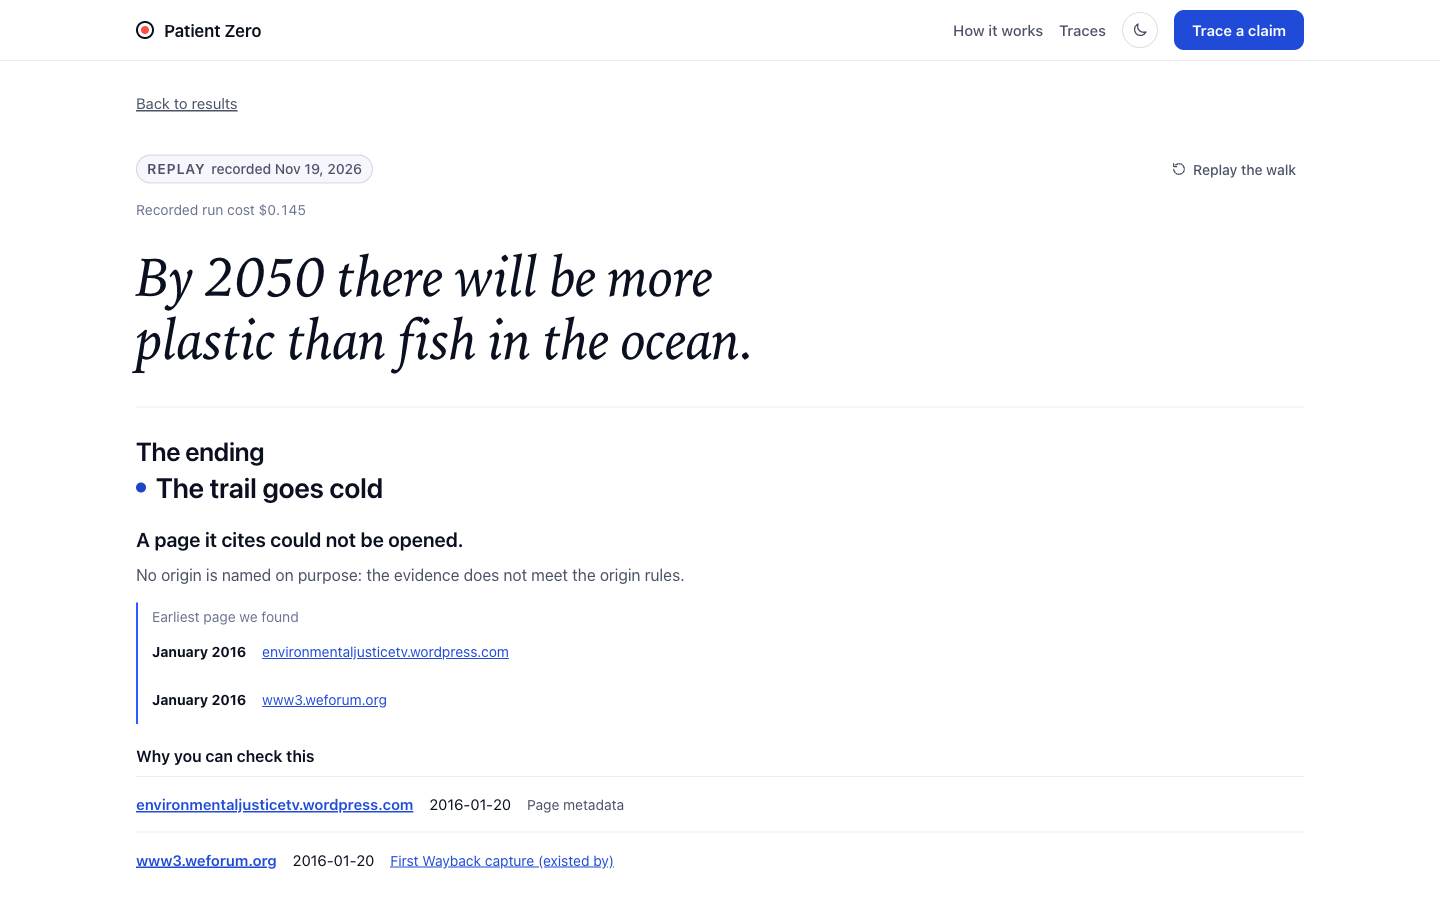
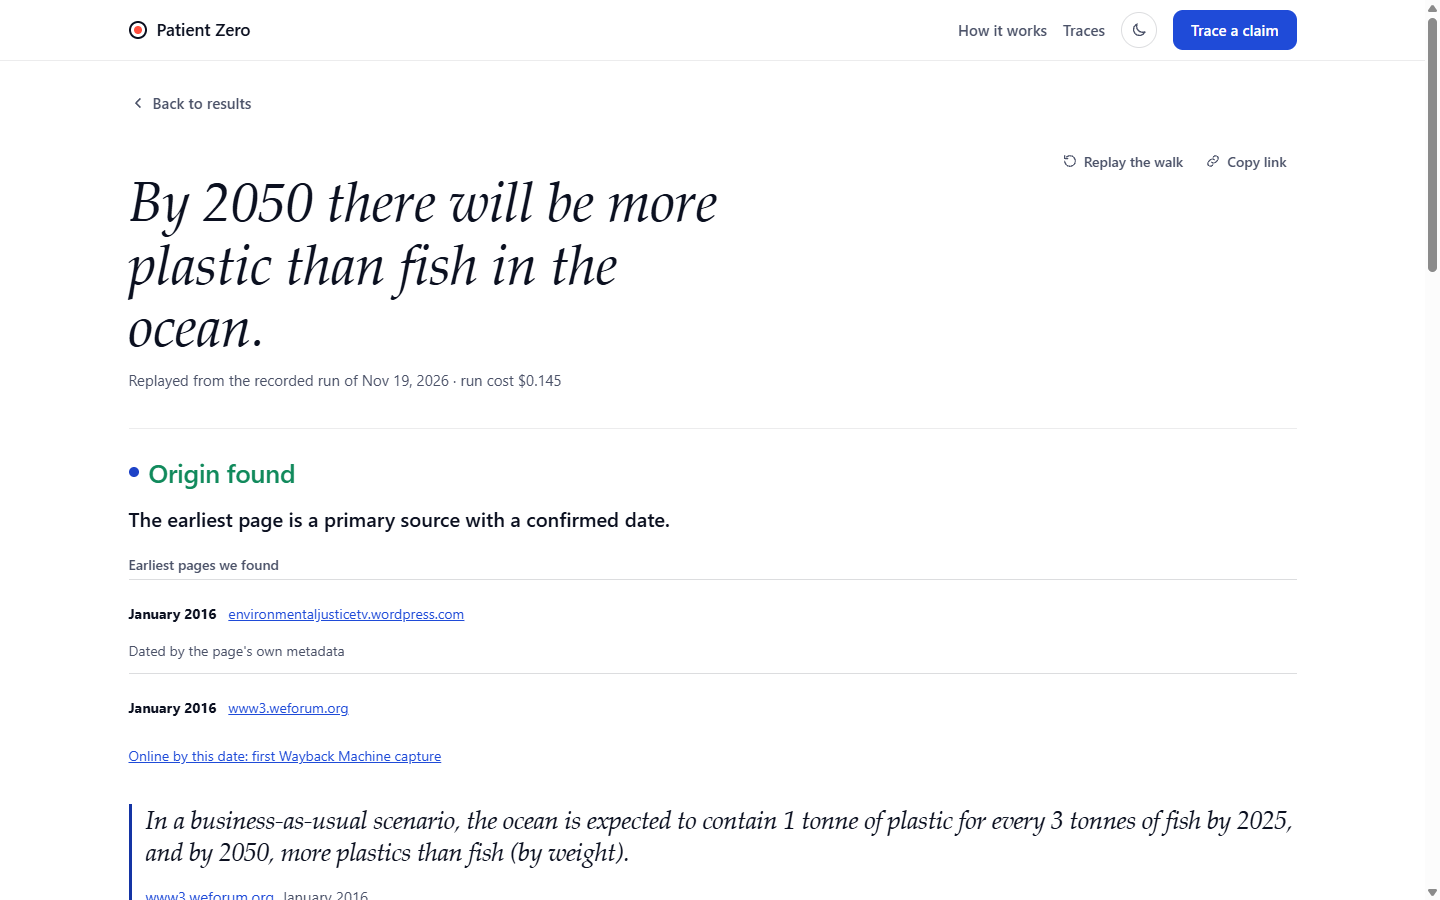
Copy and screenshots for the new dev-10 ending: Origin found, the WEF report, January 2016; cold-ending examples move to dev-02

diff --git a/apps/web/src/components/Landing.tsx b/apps/web/src/components/Landing.tsx
@@ -161,7 +161,7 @@ const steps = [
   { n: "1", title: "Search back in time", body: "Tavily searches for the claim, then again in older and older date windows, and extracts each page." },
   { n: "2", title: "Read and date every page", body: "Code pulls the exact sentence. Dates come from registries, page metadata, the Wayback Machine, and a marked date in the article only when nothing on the page contradicts it, each labelled." },
   { n: "3", title: "Compare copies to roots", body: "Nebius Token Factory models answer typed questions on each hop: did the number change, was a hedge dropped, same claim?" },
-  { n: "4", title: "Stop honestly", body: "A decision table in code picks the ending, never the model. If a page it cites can't be opened, the trail goes cold." },
+  { n: "4", title: "Stop honestly", body: "A decision table in code picks the ending, never the model. If a cited page needed to establish the origin can't be opened, the trail goes cold." },
 ];
 
 const team = [
@@ -176,6 +176,7 @@ export function Landing({ traces, hero, focusKey, onMatch, onLive }: {
 }) {
   const tries = challengeTraces(traces);
   const copiesTrace = traces.find((t) => t.id === "dev-12" && !t.synthetic) ?? null;
+  const coldTrace = traces.find((t) => t.id === "dev-02" && !t.synthetic) ?? null;
   return (
     <main className="lp">
       <section className="lp-hero">
@@ -215,11 +216,11 @@ export function Landing({ traces, hero, focusKey, onMatch, onLive }: {
           <h2 id="lp-only" className="lp-h2">Five things only a trace shows</h2>
           <p className="lp-intro">Each one is taken from a trace recorded in this repo, with the file or page you can open to check it.</p>
           <div className="lp-receipts">
-            {hero && (
-              <Receipt n="1" title="0 wrong origins on our 20-claim tuning set" measures="False origins: a page named as the origin that isn't. On our 20-claim tuning set, final live run: 0. Most traces stop short of the origin (target page cited on 4 of 10), and none yet ends on its true origin. Outside that set it is not perfect: on our 8-claim gallery run it named one false origin (G4), a list page whose metadata date predates the paper it lists."
-                check={[{ label: "eval/dev-score.md", href: blob("eval/dev-score.md") }, { label: "docs/gallery.md (G4)", href: blob("docs/gallery.md") }, { label: "open this trace", href: traceHref(hero) }]}>
+            {coldTrace && (
+              <Receipt n="1" title="0 wrong origins on our 20-claim tuning set" measures="False origins: a page named as the origin that isn't. On our 20-claim tuning set, final live run: 0. The replay re-decision now ends on the expected origins for the plastic versus fish claim and the plastic recycling claim. The spiders claim below still stops cold. The gallery live run named one false origin (G4), a list page whose metadata date predates the paper it lists; that page no longer passes the origin rules on replay."
+                check={[{ label: "eval/dev-score.md", href: blob("eval/dev-score.md") }, { label: "docs/gallery.md (G4)", href: blob("docs/gallery.md") }, { label: "open this trace", href: traceHref(coldTrace) }]}>
                 <p className="lp-big"><span>0</span> false origins on the tuning set</p>
-                <ColdEnding trace={hero} />
+                <ColdEnding trace={coldTrace} />
               </Receipt>
             )}
             {hero && (

diff --git a/apps/web/index.html b/apps/web/index.html
@@ -17,7 +17,7 @@
     <meta property="og:image" content="https://patient-0.vercel.app/og.png" />
     <meta property="og:image:width" content="1200" />
     <meta property="og:image:height" content="630" />
-    <meta property="og:image:alt" content="The Patient Zero landing page: the headline and a recorded trace walking a claim back from 2025 to 2016, ending with the trail going cold." />
+    <meta property="og:image:alt" content="The Patient Zero landing page: the headline and a recorded trace walking a claim back from 2025 to 2016. Origin found: the WEF report, January 2016, archived by January 20, 2016; publication date not established." />
     <meta name="twitter:card" content="summary_large_image" />
     <meta name="twitter:title" content="Patient Zero" />
     <meta name="twitter:description" content="Walks a viral claim back to the earliest web page it can find, and says so when the trail goes cold." />

diff --git a/apps/web/src/components/HowItWorks.tsx b/apps/web/src/components/HowItWorks.tsx
@@ -79,7 +79,7 @@ export function HowItWorks({ hero }: { hero: Trace | null }) {
               Nebius Token Factory models answer typed questions about each hop under strict JSON schemas: did the number change, was a hedge dropped, is it the same claim? Pages that copy another are folded into its root.
             </Step>
             <Step n="4" title="Stop honestly" example={ex.end}>
-              A decision table in code picks one of six endings. The model never names an origin. If a page it cites can't be opened, the trail goes cold.
+              A decision table in code picks one of six endings. The model never names an origin. If a cited page needed to establish the origin can't be opened, the trail goes cold.
             </Step>
           </ol>
           {hero && <a className="lp-more" href={`#/t/${encodeURIComponent(hero.id)}`}>{`Open that trace: “${hero.claim.text}”`}</a>}

diff --git a/README.md b/README.md
@@ -15,15 +15,15 @@ Team: Vidyut ([@vs-githjk](https://github.com/vs-githjk)), Rohan ([@rohanrastogi
 
 <picture>
   <source media="(prefers-color-scheme: dark)" srcset="docs/screenshots/readme/landing-1440-dark.png">
-  <img alt="The Patient Zero landing page: the headline, the claim box, and a recorded trace walking back from 2025 to 2016 and ending with the trail going cold" src="docs/screenshots/readme/landing-1440-light.png">
+  <img alt="The Patient Zero landing page: the headline, the claim box, and a recorded trace walking back from 2025 to 2016. Origin found: the WEF report, January 2016" src="docs/screenshots/readme/landing-1440-light.png">
 </picture>
 
 <picture>
   <source media="(prefers-color-scheme: dark)" srcset="docs/screenshots/readme/trace-dev10-1440-dark.png">
-  <img alt="The trace view on the recorded dev-10 trace: the claim, the ending The trail goes cold, the earliest pages found and how each was dated" src="docs/screenshots/readme/trace-dev10-1440-light.png">
+  <img alt="The trace view on the recorded dev-10 trace: the claim, the ending Origin found, the earliest pages found and how each was dated" src="docs/screenshots/readme/trace-dev10-1440-light.png">
 </picture>
 
-*The landing, and a real recorded trace ([dev-10](eval/dev-traces/dev-10.json)): found back to January 2016, it ends with the trail going cold because a page it cites could not be opened, so no origin is named.*
+*The landing, and a real recorded trace ([dev-10](eval/dev-traces/dev-10.json)): Origin found: the WEF report, January 2016. "The New Plastics Economy" is the earliest primary source found, dated by its first Wayback Machine capture: archived by January 20, 2016; publication date not established.*
 <!-- numbers ok: 1440 (screenshot width in the file names) -->
 
 Team **Says Who**, ODSC x Nebius Hackathon 2026. Built on **Nebius Token Factory** (typed questions, strict JSON schemas, first-token logprobs) and **Tavily** (search and extract), with the Wayback Machine for dates.
@@ -32,7 +32,7 @@ Team **Says Who**, ODSC x Nebius Hackathon 2026. Built on **Nebius Token Factory
 
 - **Runs live end to end:** `pz trace "<claim>"` searches with Tavily, reads and dates pages, asks Token Factory typed questions and decides the ending in code ([#191](https://github.com/vs-githjk/odsc-nebius-hackathon/pull/191)); with no keys every command replays committed traces.
 - **On our 20-claim tuning set (E2), final live run on Nov 19:** 0 false origins, target page cited on 4/10, earliest page right on 2, correct cold stops 6/9 ([eval/dev-score.md](eval/dev-score.md), which also holds every earlier run).
-- **The weak part is reaching and dating the origin itself:** no recorded trace ends on its true origin yet, and the gallery run named one false origin, G4 ([docs/gallery.md](docs/gallery.md), [docs/limits.md](docs/limits.md)).
+- **The replay re-decision finds the expected origins:** [dev-10](eval/dev-traces/dev-10.json) ends on the World Economic Forum report and [dev-09](eval/dev-traces/dev-09.json) on the Science Advances paper. This used the recorded evidence, with no new live calls ([eval/dev-score.md](eval/dev-score.md)). Reaching and dating origins remains a weakness: the gallery live run named a false origin, G4, which no longer passes the origin rules on replay ([docs/gallery.md](docs/gallery.md), [docs/limits.md](docs/limits.md)).
 - **Not yet measured:** the held-out set. The first-week spike, which lost, is under [Evaluation](#evaluation).
 
 ## Try it in two minutes, no API keys
@@ -161,8 +161,10 @@ One real claim from paste to stop state: dev-10, "By 2050 there will be more pla
 2. **Walk, window 1 (up to the day of the run).** Four searches: two built by code (`"2050" plastic`, `"more plastic than fish in the ocean" by 2050`) and two planned by the model and checked by code (one names the Ellen MacArthur Foundation). A fact-check search finds Snopes, which is read as a map: its citations are followed, and it is never a candidate origin.
 3. **Reading and dating.** Each page with a sentence that carries the claim's atoms gets a typed `same_claim` question. The earliest pages land on January 20, 2016: a blog post (dated by its own metadata) and the World Economic Forum's report "The New Plastics Economy" (dated by its first archive capture, which holds the sentence: since #238 a capture that lacks the claim never dates a page). On the report the model said yes to `same_claim`, and its page type is report.
 4. **Walk, windows 2 and 3.** Searches before 2016-01-19, then before 2010-06-14, look for anything older. Nothing older states the claim.
-5. **Stop state.** Code, not the model, decides: the report is a primary source with a confirmed date and a confident yes, but two pages the trace cites could not be opened, so rule 6 holds and it ends **The trail goes cold** ("A page it cites could not be opened"). It found the report and still does not call it the origin while a cited page is unread.
-6. **Card.** The earliest page shown is the report, quoting its own sentence: "In a business-as-usual scenario, the ocean is expected to contain 1 tonne of plastic for every 3 tonnes of fish by 2025, and by 2050, more plastics than fish (by weight)."
+5. **Stop state.** Code, not the model, decides: rule 5 holds and it ends **Origin found**. Its recorded reason: the earliest page is a report with a confirmed date. The unread citations elsewhere in the trace do not block this origin under the refined rules ([eval/dev-score.md](eval/dev-score.md)).
+6. **Card.** Origin found: the WEF report, January 2016. The earliest primary source found is "The New Plastics Economy", quoting its own sentence: "In a business-as-usual scenario, the ocean is expected to contain 1 tonne of plastic for every 3 tonnes of fish by 2025, and by 2050, more plastics than fish (by weight)." Its date comes from the first Wayback Machine capture: archived by January 20, 2016; publication date not established. This is not proof of first use.
+
+For an honest cold stop, open [dev-02](eval/dev-traces/dev-02.json): "The average person swallows eight spiders a year while sleeping." It ends **The trail goes cold**: "A page it cites could not be opened." No origin is named.
 
 What it cost, from the trace's own usage rows (cache hits excluded):
 
@@ -229,7 +231,7 @@ It was the fastest (12 to 47 s) and lost on every claim. The grading was not ful
 | Tavily `extract` | reading the pages a search returns | live in every dev run since Nov 17 |
 | Wayback CDX | first capture of each page, capping its date | live: every dev trace's usage rows include its Wayback lookups |
 
-**How links survive into the trace.** Every page a Tavily search returns is saved with its URL; Tavily `extract` gives the text the spans are cut from, and each span keeps its character offsets and a hash so `pz verify` can find it again. The Wayback capture URL that dated a page is kept on the page's date, and the trace view links both the page and the capture ("Open the page", "Open the capture"). A cited page that could not be opened is kept too, marked unread, which is why such a trace ends cold.
+**How links survive into the trace.** Every page a Tavily search returns is saved with its URL; Tavily `extract` gives the text the spans are cut from, and each span keeps its character offsets and a hash so `pz verify` can find it again. The Wayback capture URL that dated a page is kept on the page's date, and the trace view links both the page and the capture ("Open the page", "Open the capture"). A cited page that could not be opened is kept too, marked unread. If that page is needed to establish the origin, the trace ends cold.
 
 Every call writes a usage row: model, tokens, cached tokens, Tavily credits, dollars, latency, status and cache hit ([packages/pz/src/schema/usage.ts](packages/pz/src/schema/usage.ts)). The [recorded usage report](docs/usage-report.md) groups the current saved dev traces by service, model, endpoint and stage, with per-trace totals and cache hits. Rebuild it with `make usage-report`. It describes the saved traces, not the team billing ledger or every historical run. Median speed and cost per trace, from those rows: [eval/perf.md](eval/perf.md).
 

diff --git a/docs/submission.md b/docs/submission.md
@@ -33,8 +33,8 @@ Everything here opens free in the live app at https://patient-0.vercel.app, repl
 
 The five gallery images are in [docs/screenshots/submission/](screenshots/submission/README.md), with a phone set of the same five views.
 
-1. "Anyone can find you a source. Patient Zero shows you whether to trust it." The landing page, with a recorded trace walking a viral claim back from 2025 to 2016 and ending with the trail going cold.
-2. The ending comes first. The trail goes cold because a page it cites could not be opened, so no origin is named. The earliest pages found, and how each date was proven.
+1. "Anyone can find you a source. Patient Zero shows you whether to trust it." The landing page, with a recorded trace walking a viral claim back from 2025 to 2016. Origin found: the WEF report, January 2016.
+2. The ending comes first: Origin found. The earliest primary source found is the WEF report "The New Plastics Economy", dated by its first Wayback Machine capture: archived by January 20, 2016; publication date not established.
 3. Follow the wording: the exact sentence on each page, with what changed from the page before, on a time ramp from 2016 to 2025.
 4. Copies and roots: 8 pages, 6 independent roots, 2 copies, each root with its date and how it was dated, and its copies nested under it.
 5. Check an AI answer: each statistic in an answer traced on its own. A recorded example, written for this demo. 3 statistics: 3 went cold.
@@ -58,7 +58,7 @@ A reporter or fact-checker with one number and a deadline. Today they paste the 
 
 - **`make verify`**, with no API keys, re-opens every committed trace, re-finds each sentence by its offsets and hashes, and recomputes the ending ([packages/pz/src/verify/checks.ts](../packages/pz/src/verify/checks.ts)). It runs in CI on every push.
 - **Held-out set:** 10 claims, kept private, with their hash committed before most engine stages were built (the decision table, number rules and clients came first) ([eval/heldout.sha256](../eval/heldout.sha256)). Run once, on a frozen engine. Result: [SLOT: held-out origin hits X of 10, and every miss, from #125].
-- **Dev sets:** E2 has 20 claims and is the only set anything is tuned on. E3 has 40 claims and is only checked ([eval/dev-sets.md](../eval/dev-sets.md)). Latest E2 row, the final live run on Nov 19 after the archive-date fix ([#238](https://github.com/vs-githjk/odsc-nebius-hackathon/pull/238)), as scored in [eval/dev-score.md](../eval/dev-score.md): false origins 0, target cited 4/10, earliest 2 Pass, 0 Partial, 8 Fail, cold stops 6/9, 18 of 19 claims scored (1 more scored apart as out of scope), 234 Tavily credits. The hero claim (dev-10) now ranks the World Economic Forum report of January 2016 earliest, quoting its own sentence. The run before (Nov 18, run 3 plus 2 re-records after [#225](https://github.com/vs-githjk/odsc-nebius-hackathon/pull/225)) gave false origins 0, target cited 3/10, earliest 1 / 0 / 9 and cold stops 8/9. Earlier runs on the same claims are rows in the same file.
+- **Dev sets:** E2 has 20 claims and is the only set anything is tuned on. E3 has 40 claims and is only checked ([eval/dev-sets.md](../eval/dev-sets.md)). The final live E2 run on Nov 19 after the archive-date fix ([#238](https://github.com/vs-githjk/odsc-nebius-hackathon/pull/238)), as scored in [eval/dev-score.md](../eval/dev-score.md): false origins 0, target cited 4/10, earliest 2 Pass, 0 Partial, 8 Fail, cold stops 6/9, 18 of 19 claims scored (1 more scored apart as out of scope), 234 Tavily credits. The later replay re-decision ends Origin found on the expected origins: dev-10 on the World Economic Forum report, January 2016, and dev-09 on the Science Advances paper. It used the recorded evidence with no new live calls. The WEF report is dated by its first Wayback Machine capture: archived by January 20, 2016; publication date not established. The run before (Nov 18, run 3 plus 2 re-records after [#225](https://github.com/vs-githjk/odsc-nebius-hackathon/pull/225)) gave false origins 0, target cited 3/10, earliest 1 / 0 / 9 and cold stops 8/9. Earlier runs on the same claims are rows in the same file.
 - **E3 check:** not run live. E3 was kept as a check-only set, and the live budget went to the final E2 run, the gallery and the S7 answer check, so there is no E3 score to report.
 - **Planted traps:**
   - 0 wrong origins on 10 planted traces ([traps/README.md](../traps/README.md));

diff --git a/docs/screenshots/submission/README.md b/docs/screenshots/submission/README.md
@@ -4,9 +4,9 @@ Five images at 1440 x 960 (3:2), taken with Playwright from the app on main, Nov
 recorded trace (dev-10 and the recorded S7 answer check), replayed. Suggested captions:
 
 1. **1-landing.png:** "Anyone can find you a source. Patient Zero shows you whether to trust it." The landing page,
-   with a recorded trace walking a viral claim back from 2025 to 2016 and ending with the trail going cold.
-2. **2-trace-ending.png:** The ending comes first. The trail goes cold because a page it cites could not be opened, so
-   no origin is named. The earliest pages found, and how each date was proven.
+   with a recorded trace walking a viral claim back from 2025 to 2016. Origin found: the WEF report, January 2016.
+2. **2-trace-ending.png:** The ending comes first: Origin found. The earliest primary source found is the WEF report
+   "The New Plastics Economy", dated by its first Wayback Machine capture: archived by January 20, 2016; publication date not established.
 3. **3-follow-the-wording.png:** Follow the wording: the exact sentence on each page, with what changed from the page
    before, on a time ramp from 2016 to 2025. Shown in dark mode.
 4. **4-copies-and-roots.png:** Copies and roots: 8 pages, 6 independent roots, 2 copies. Each root with its date and
